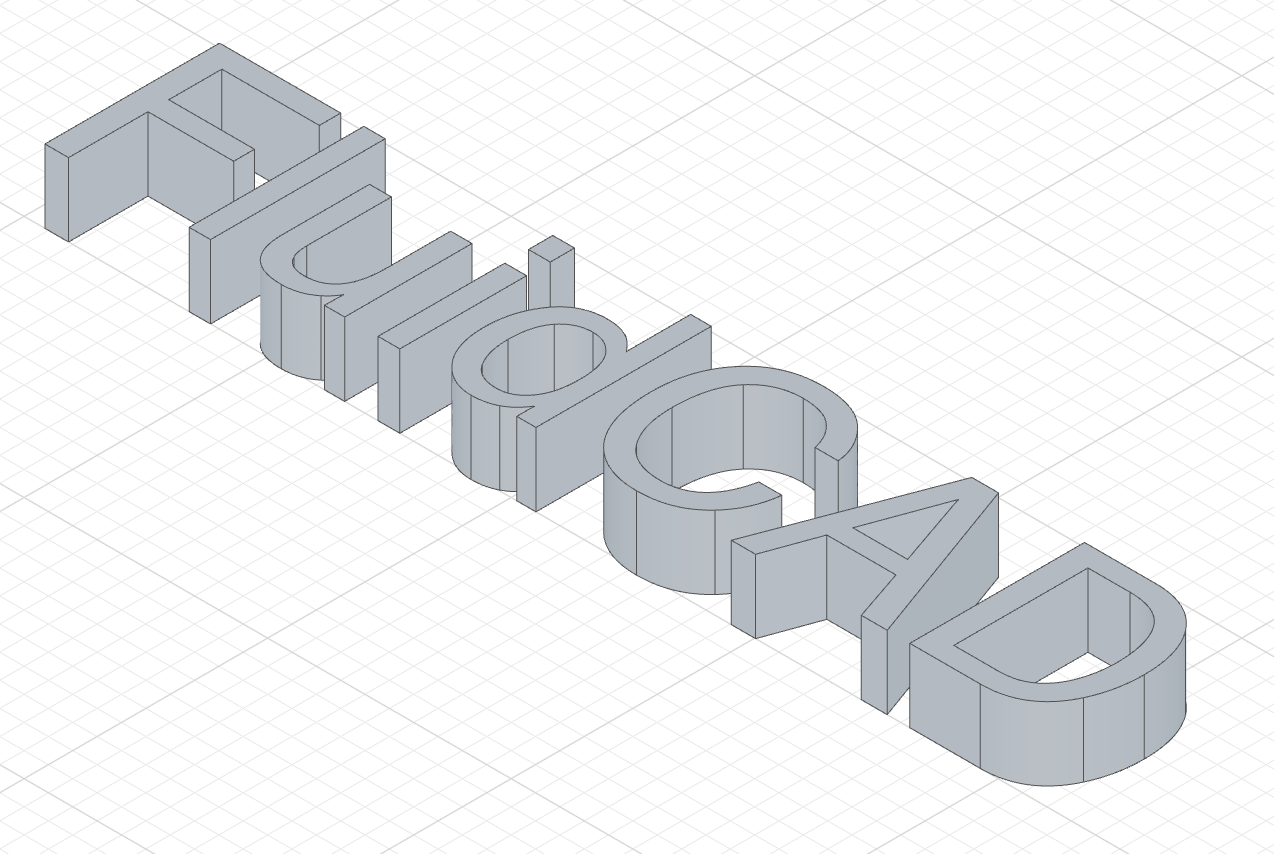
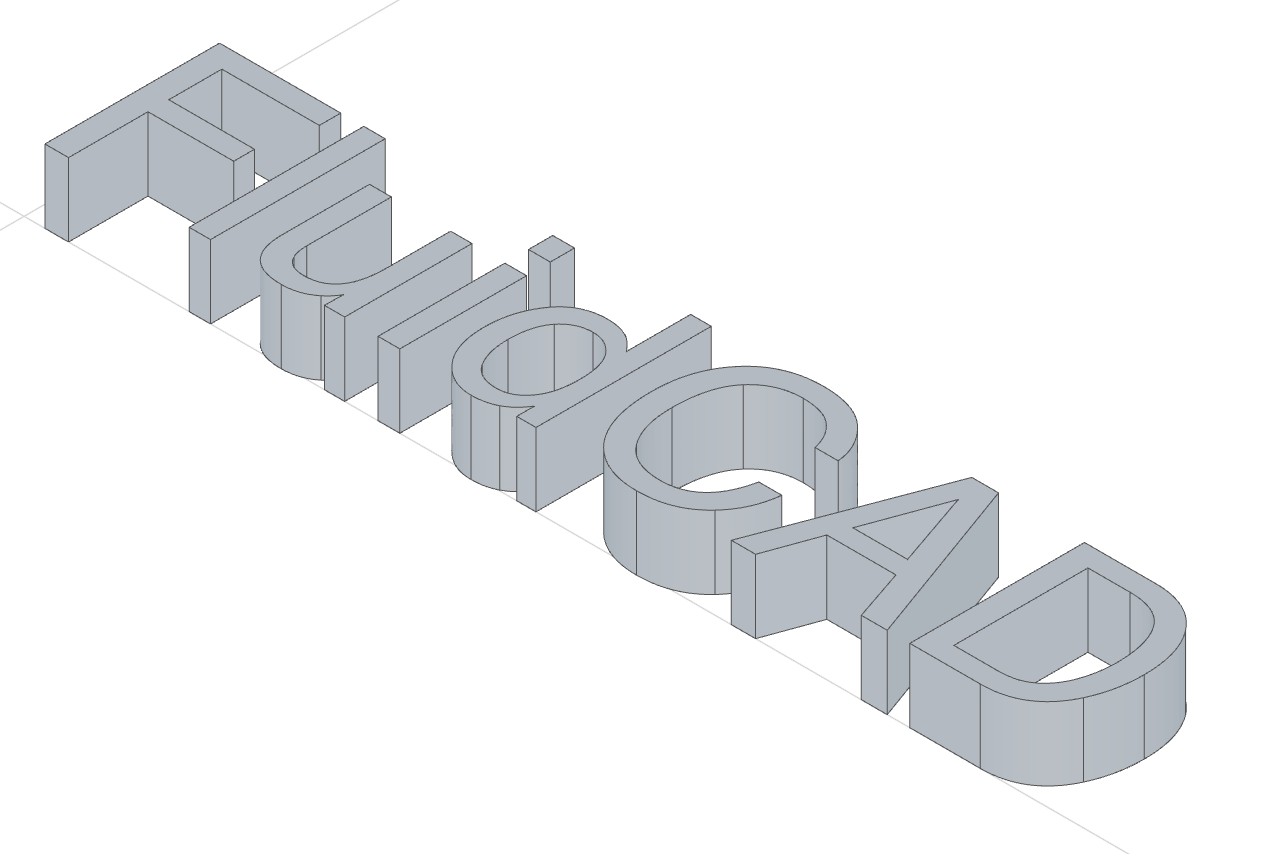
docs(website): migrate text-on-path examples to the solved arc()/circle() forms and reframe their screenshots (crop/delay/render-error directives in generate-screenshots.mjs), skip unreferenced part-sibling renders, drop 48 orphaned legacy images

diff --git a/website/docs/sketching/_examples/compound-text-path-offset.js b/website/docs/sketching/_examples/compound-text-path-offset.js
@@ -1,10 +1,10 @@
-// @screenshot view top
-import { arc, extrude, sketch, text } from 'fluidcad/core';
+// @screenshot size 4800x3200 crop 0,0,100,38
+import { arc, sketch, text } from 'fluidcad/core';
 
-const path = sketch("xy", () => {
-  arc([0, 0], [100, 0]).center([50, -120]).cw();
+sketch("xy", () => {
+  // The path is a guide arc: it shapes the text but never joins the profile.
+  const path = arc([0, 0], [100, 0], [50, -120]).cw().guide();
+  // Positive offset floats the baseline above the curve, negative tucks it below.
+  text("FLOATING ABOVE", path).size(8).align("center").offset(10);
+  text("TUCKED BELOW", path).size(8).align("center").offset(-14);
 });
-const above = text("FLOATING ABOVE", path).size(8).align("center").offset(10);
-const below = text("TUCKED BELOW", path).size(8).align("center").offset(-14);
-extrude(3, above);
-extrude(3, below);

diff --git a/website/docs/sketching/_examples/compound-text-path-flip.js b/website/docs/sketching/_examples/compound-text-path-flip.js
@@ -1,7 +1,7 @@
 // @screenshot view top
 import { sketch, circle, extrude, text } from 'fluidcad/core';
 
-const ring = sketch("xy", () => circle(90));
+const ring = sketch("xy", () => circle([0, 0], 90));
 const outside = text("OUTSIDE", ring).size(10).align("center");
 // startAt(141) ≈ half the circumference: badge-style text on the far side.
 const inside = text("INSIDE", ring).size(10).align("center").flip().startAt(141);

diff --git a/website/docs/sketching/_examples/compound-text-path-align-space-between.js b/website/docs/sketching/_examples/compound-text-path-align-space-between.js
@@ -1,7 +1,7 @@
-// @screenshot size 2400x1600
+// @screenshot size 4800x3200 crop 0,0,100,16
 import { arc, sketch, text } from 'fluidcad/core';
 
 sketch("xy", () => {
-  const path = arc([0, 0], [180, 0]).center([90, -216]).cw().guide();
+  const path = arc([0, 0], [180, 0], [90, -216]).cw().guide();
   text("space-between", path).size(14).align("space-between");
 });

diff --git a/website/docs/sketching/_examples/compound-text-path-align-space-around.js b/website/docs/sketching/_examples/compound-text-path-align-space-around.js
@@ -1,7 +1,7 @@
-// @screenshot size 2400x1600
+// @screenshot size 4800x3200 crop 0,0,100,16
 import { arc, sketch, text } from 'fluidcad/core';
 
 sketch("xy", () => {
-  const path = arc([0, 0], [180, 0]).center([90, -216]).cw().guide();
+  const path = arc([0, 0], [180, 0], [90, -216]).cw().guide();
   text("space-around", path).size(14).align("space-around");
 });

diff --git a/website/docs/api/_examples/text-path.js b/website/docs/api/_examples/text-path.js
@@ -1,8 +1,8 @@
-// @screenshot view top
+// @screenshot view iso-ftr
 import { arc, extrude, sketch, text } from 'fluidcad/core';
 
 sketch("xy", () => {
-  const path = arc([0, 0], [100, 0]).center([50, -120]).cw().guide();
+  const path = arc([0, 0], [100, 0], [50, -120]).cw().guide();
   text("CURVED TEXT", path).size(12).align("center");
 });
 extrude(4);

diff --git a/website/docs/sketching/_examples/compound-text-path.js b/website/docs/sketching/_examples/compound-text-path.js
@@ -1,8 +1,8 @@
-// @screenshot view top
+// @screenshot view iso-ftr
 import { arc, extrude, sketch, text } from 'fluidcad/core';
 
 sketch("xy", () => {
-  const path = arc([0, 0], [100, 0]).center([50, -120]).cw().guide();
+  const path = arc([0, 0], [100, 0], [50, -120]).cw().guide();
   text("CURVED TEXT", path).size(12).align("center");
 });
 extrude(4);

diff --git a/website/docs/sketching/_examples/compound-text-path-align-center.js b/website/docs/sketching/_examples/compound-text-path-align-center.js
@@ -1,7 +1,7 @@
-// @screenshot size 2400x1600
+// @screenshot size 4800x3200 crop 0,0,100,16
 import { arc, sketch, text } from 'fluidcad/core';
 
 sketch("xy", () => {
-  const path = arc([0, 0], [180, 0]).center([90, -216]).cw().guide();
+  const path = arc([0, 0], [180, 0], [90, -216]).cw().guide();
   text("center", path).size(14).align("center");
 });

diff --git a/website/docs/sketching/_examples/compound-text-path-align-start.js b/website/docs/sketching/_examples/compound-text-path-align-start.js
@@ -1,7 +1,7 @@
-// @screenshot size 2400x1600
+// @screenshot size 4800x3200 crop 0,0,100,16
 import { arc, sketch, text } from 'fluidcad/core';
 
 sketch("xy", () => {
-  const path = arc([0, 0], [180, 0]).center([90, -216]).cw().guide();
+  const path = arc([0, 0], [180, 0], [90, -216]).cw().guide();
   text("start", path).size(14).align("start");
 });

diff --git a/website/docs/sketching/_examples/compound-text-path-align-end.js b/website/docs/sketching/_examples/compound-text-path-align-end.js
@@ -1,7 +1,7 @@
-// @screenshot size 2400x1600
+// @screenshot size 4800x3200 crop 0,0,100,16
 import { arc, sketch, text } from 'fluidcad/core';
 
 sketch("xy", () => {
-  const path = arc([0, 0], [180, 0]).center([90, -216]).cw().guide();
+  const path = arc([0, 0], [180, 0], [90, -216]).cw().guide();
   text("end", path).size(14).align("end");
 });

diff --git a/website/docs/assembly/_examples/asm-cover.part.js b/website/docs/assembly/_examples/asm-cover.part.js
@@ -1,3 +1,4 @@
+// @screenshot skip
 import { part, sketch, line, circle, extrude, fillet, chamfer, color, select, connector } from 'fluidcad/core';
 import { face } from 'fluidcad/filters';
 import { coincident, distance, fix, horizontal, vertical } from 'fluidcad/constraints';

diff --git a/website/docs/assembly/_examples/asm-lever.part.js b/website/docs/assembly/_examples/asm-lever.part.js
@@ -1,3 +1,4 @@
+// @screenshot skip
 import { part, sketch, line, circle, extrude, fillet, color, plane, select, connector } from 'fluidcad/core';
 import { face } from 'fluidcad/filters';
 import { coincident, distance, fix, horizontal, vertical } from 'fluidcad/constraints';

diff --git a/website/docs/assembly/_examples/asm-plate.part.js b/website/docs/assembly/_examples/asm-plate.part.js
@@ -1,3 +1,4 @@
+// @screenshot skip
 import { part, sketch, line, circle, extrude, fillet, select, connector, expose } from 'fluidcad/core';
 import { face } from 'fluidcad/filters';
 import { coincident, distance, fix, horizontal, vertical } from 'fluidcad/constraints';
